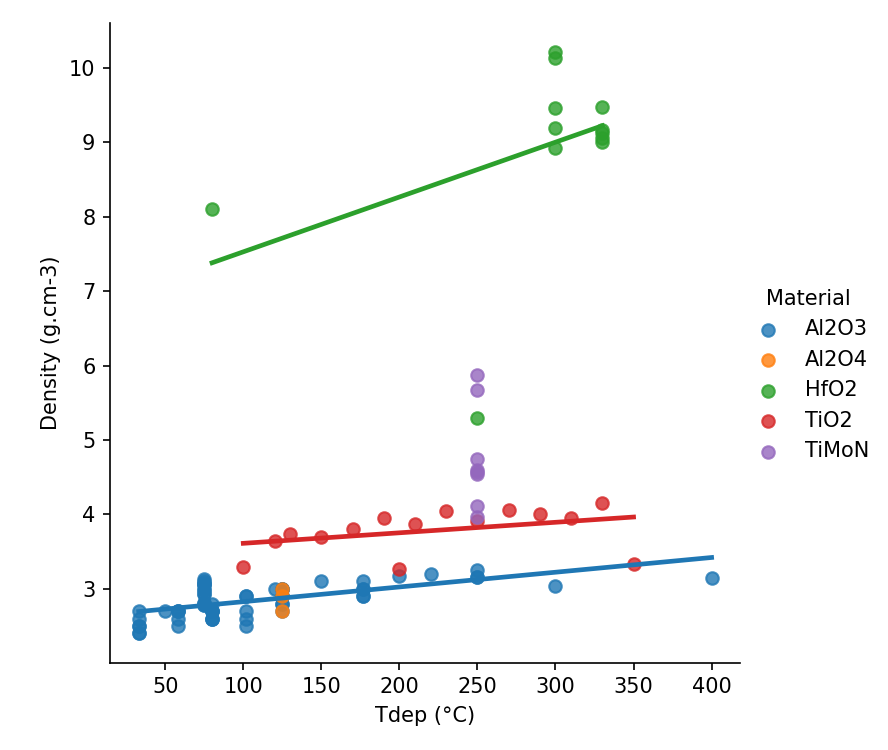
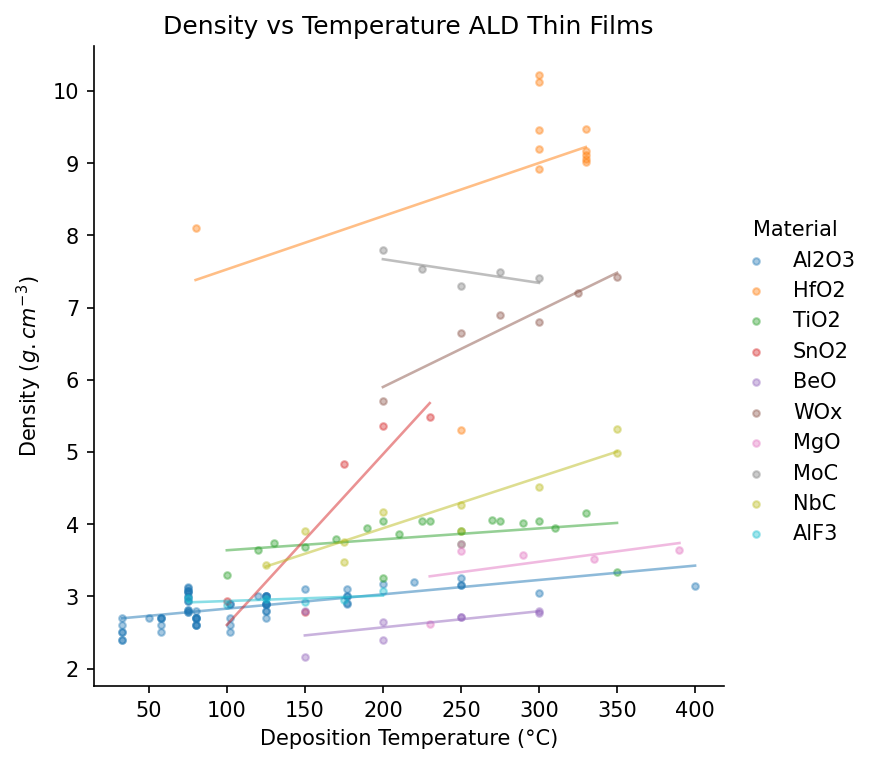
Density vs Temperature Plot aesthetics update

diff --git a/scripts/plot_ald.py b/scripts/plot_ald.py
@@ -40,16 +40,33 @@ Z="Material"
 
 
 # FILTER
+# print("---------------------------------------------------")
 
 m = 2 # only plot if there are more than m values per category Z
+
+# require a material to have more than m data points to plot it
 count_z = df[Z].value_counts()
 filt_minpoints = df[Z].isin(count_z[count_z > m].index)
 
-df_plot = df.loc[filt_minpoints, :] # create new df with filtered values
+# require more than m unique temperatures to plot the material
+count_x = df.groupby(Z)[X].nunique()
+filt_temps = df[Z].isin(count_x[count_x > m].index)
+
+filt = filt_minpoints & filt_temps
+
+df_plot = df.loc[filt, :] # create new df with filtered values
 # print(df_plot.tail())
 
-print(df[Z].value_counts(), "\n")
+# print(count_x)
+# print(filt_minpoints)
+# print(filt_temps)
+print("---------------------------------------------------")
+
+
+
+# print(df[Z].value_counts(), "\n")
 print(df_plot[Z].value_counts(), "\n")
+print(df_plot.groupby(Z)[X].nunique(), "\n")
 
 
 # PLOT
@@ -57,7 +74,17 @@ print(df_plot[Z].value_counts(), "\n")
 # df.plot(x=X, y=Y, marker='x', kind='scatter') # scatter plot
 # sns.scatterplot(data=df, x=X, y=Y, hue=Z) # scatter plot coloured by material
 # sns.regplot(data=df, x=X, y=Y, ci=None) # scatter plot with linear regression
-sns.lmplot(data=df_plot, x=X, y=Y, hue=Z, ci=None) # scatter plot with linear regression for each category Z 
+sns.lmplot(data=df_plot, x=X, y=Y, hue=Z, ci=None, scatter_kws={"s": 10, "alpha":0.4}, line_kws={"lw":1.25, "alpha":0.5}) # scatter plot with linear regression for each category Z 
+
+# SET PLOT TITLE
+plt.title("Density vs Temperature ALD Thin Films")
+
+# SET AXIS LABELS
+plt.xlabel("Deposition Temperature (°C)")
+plt.ylabel("Density $(g.cm^{-3})$")
+
 
 # plt.show()
-plt.savefig('plots/plot1.png', dpi=150)
+
+# bbox_inches stops title from being cut off in the plot
+plt.savefig('plots/plot1.png', dpi=150, bbox_inches="tight")
